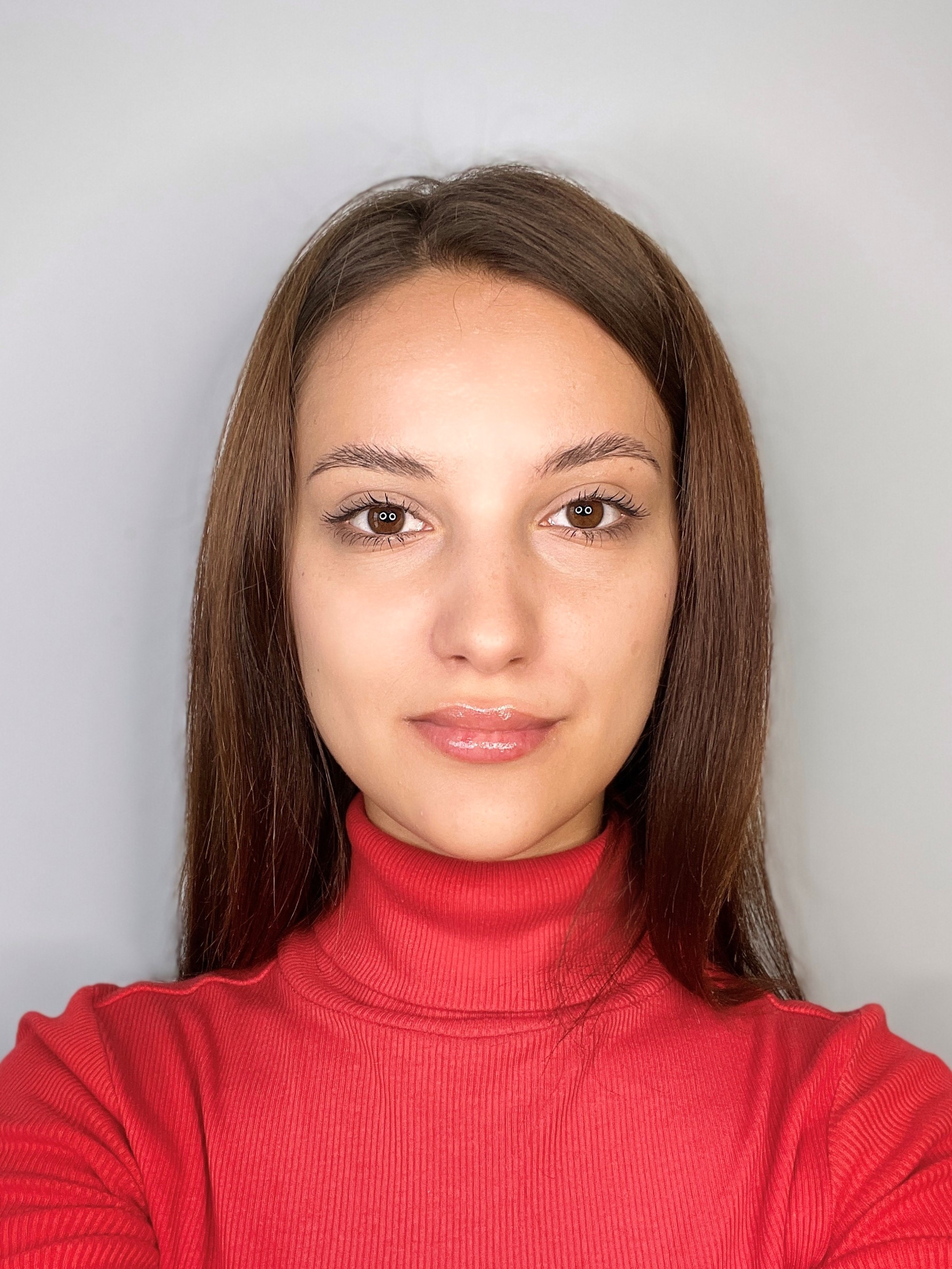
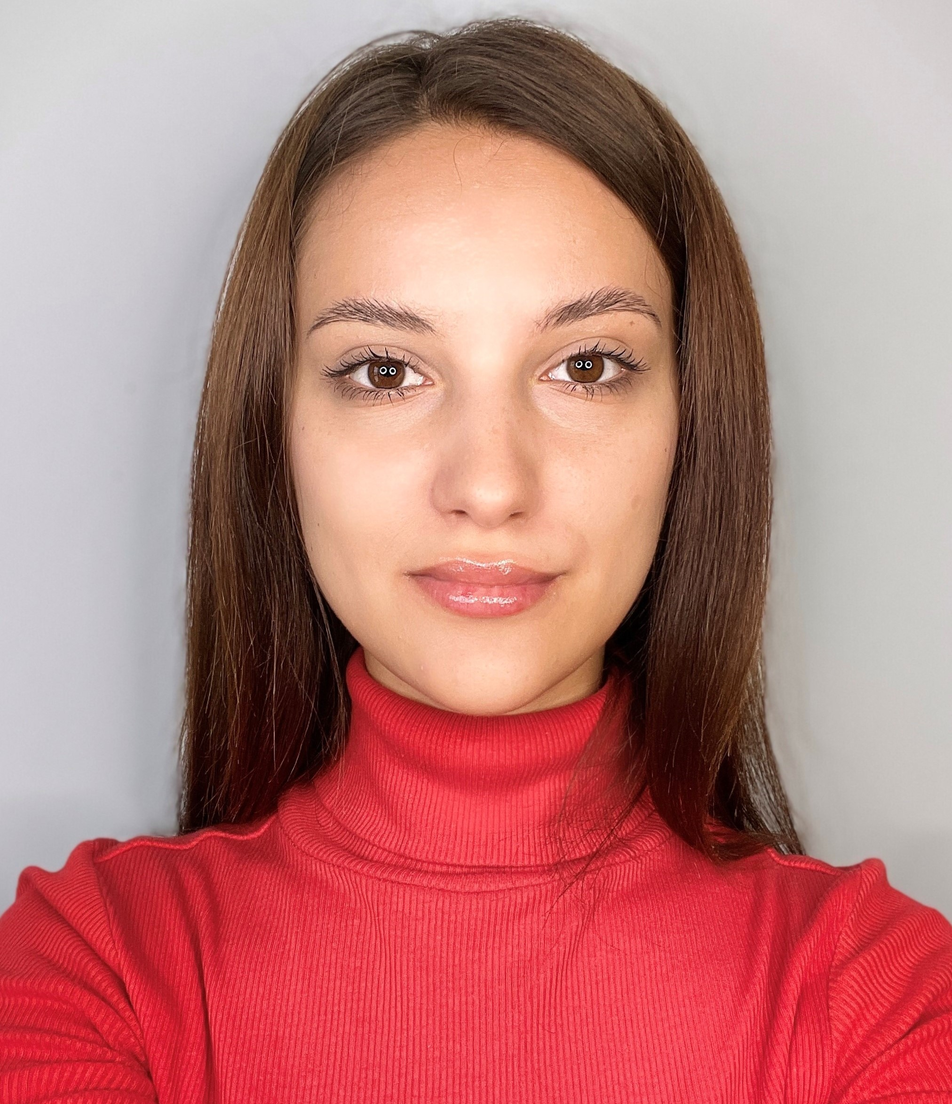
contact-about page CSS

diff --git a/contact-page.html b/contact-page.html
@@ -84,7 +84,7 @@
               <a
                 class="nav-link"
                 href="contact-page.html#contact"
-                title="Contact Viktoriia Skakovska"
+                title="Contact Viktoriia"
                 >Contact me</a
               >
             </li>
@@ -93,14 +93,7 @@
       </div>
     </nav>
     <div class="container-1 d-flex justify-content-center">
-      <div class="col-sm-4 text-right">
-        <img
-          src="images/me.jpg"
-          alt="photo Viktoria Skakovska"
-          class="img-photo img-fluid rounded"
-        />
-      </div>
-      <div class="col-sm-4">
+      <div class="col-md-6">
         <h1 class="text-uppercase">About me</h1>
         <h2>Front-end developer, based in Europe</h2>
         <p>
@@ -109,8 +102,22 @@
           alias veniam excepturi rem dolor fugit dignissimos, sed voluptatum
           blanditiis harum.
         </p>
+        <a
+          href="contact-page.html"
+          class="link-works btn btn-works text-capitalize"
+          title="See project by Viktoriia"
+          >See my project</a
+        >
+      </div>
+      <div class="col-md-6 text-center">
+        <img
+          src="images/me.jpg"
+          alt="photo Viktoria"
+          class="img-photo img-fluid rounded"
+        />
       </div>
     </div>
+    <!--
     <div class="container">
       <div class="row">
         <div class="col-sm-4">
@@ -133,7 +140,8 @@
         </div>
       </div>
     </div>
-    <div class="contact-me fw-bold" id="contact">
+    -->
+    <div class="contact-me text-uppercase text-center" id="contact">
       Contact me
       <div class="email-contact">
         <a

diff --git a/src/style-about-page.css b/src/style-about-page.css
@@ -21,40 +21,51 @@ body {
   font-size: 16px;
 }
 h1 {
-  font-size: 40px;
-  font-weight: 300 !important;
+  font-size: 50px;
+  font-weight: 400 !important;
   letter-spacing: 0.1em;
 }
 h2 {
-  font-size: 20px;
+  font-size: 25px;
   color: var(--primary-color-text);
-  opacity: 0.8;
+  opacity: 0.7;
   font-weight: 300;
   margin-top: 40px;
 }
+p {
+  font-size: 18px;
+  margin-top: 40px;
+}
 .container-1 {
-  -moz-box-align: center;
   max-width: 1100px;
   margin-top: 200px;
   margin-left: 400px;
+  height: 500px;
 }
 .img-photo {
   width: 250px;
+  border-color: var(--primary-color-text) !important;
 }
-.border {
-  color: var(--primary-color-text) !important;
-  border-radius: 15px;
+.btn-works {
+  width: 165px;
+  margin-top: 20px;
+  background-color: var(--primary-color-text);
+  padding: 10px 20px;
+  border-radius: 5px;
+  box-shadow: var(--box-shadow);
+  cursor: pointer;
+  color: rgb(255, 255, 255);
 }
-p {
-  font-size: 15px;
-  line-height: 1.5;
-  margin-top: 30px;
-  max-width: 400px;
+.btn-works:hover {
+  transform: scale(1.05);
+  opacity: 0.8;
+  color: white;
+  text-decoration: none;
 }
+
 .contact-me {
-  text-align: center;
   font-weight: bold;
-  font-size: 50px;
+  font-size: 40px;
 }
 .email-contact {
   text-align: center;
@@ -68,11 +79,7 @@ p {
 .contact-link {
   text-decoration: none;
 }
-.row {
-  background: rgba(255, 255, 255, 0.572);
-  border-radius: 5px;
-  max-height: 600px;
-}
+
 .footer-img {
   width: 30px;
 }
